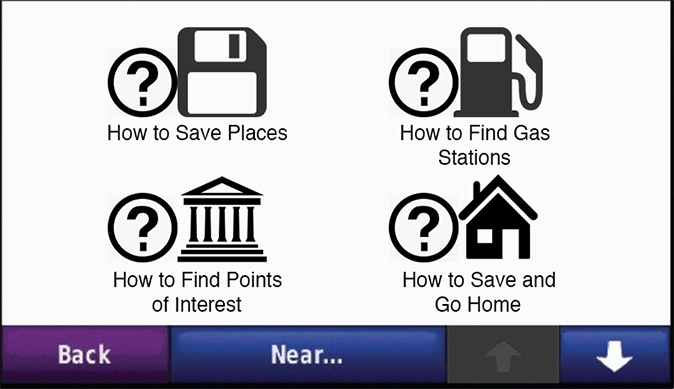
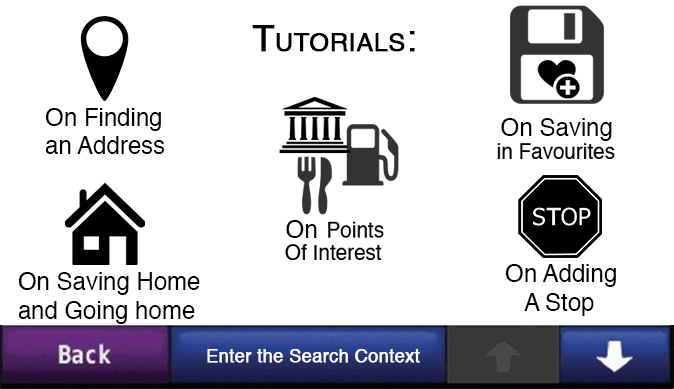
nova versão, mais enxuta e bugs corrigidos

Changed region(s): [[0.0, 0.0, 1.0, 0.8329], [0.2804, 0.8638, 0.6231, 0.9563]]

diff --git a/GarminHelp/src/gui/Tutor.java b/GarminHelp/src/gui/Tutor.java
@@ -17,54 +17,141 @@ import javax.swing.JPanel;
 
 public class Tutor {
 
-	private JFrame tutorFrame;
-	private Dimension d;
-	private Point p;
-	private JLabel label;
-	private String tutorMenu = "/tutorHelpMenu.png";
-
-
-	public Tutor(JFrame myFrame, Dimension d, Point p) throws IOException {
+	private static JFrame tutorFrame;
+	private static Dimension d;
+	private static Point p;
+	private static JLabel label;
+	private static String saveFav = "/tutorSaveFavourite.png";
+	private static String tutorMenu = "/tutorHelpMenu.png";
+	private static String saveHome = "/tutorSaveNavHome.png";
+	private static String pointsInterest = "/tutorPointsOfInt.png";
+	private static String address = "/tutorFindAddress.png";
+	private static String stop = "/tutorAddStop.png";
+	
+	public static void tutorMenu(JFrame myFrame, Dimension d, Point p) throws IOException {
 		tutorFrame = myFrame;
-		this.d = d;
-		this.p = p;
+		Tutor.d = d;
+		Tutor.p = p;
 		URL menu = URL.class.getResource(tutorMenu);
 		label = new JLabel();
 		Image img = ImageIO.read(menu);
 		label.setIcon(new ImageIcon(img));
 		label.setSize(d);
 		label.setLocation(p);
-	}
-	public void tutorMenu() {
+		boolean isTutor = true;
 		JPanel menuPanel = new JPanel();
 		menuPanel.setSize(d);
 		menuPanel.setLocation(p);
-		//		menuPanel.setLayout(null);
 
 		menuPanel.add(label);
 		menuPanel.setVisible(true);
 		tutorFrame.add(menuPanel);
 		tutorFrame.repaint();
-		handleBack(menuPanel, tutorFrame);
+		handleClicks(tutorFrame, menuPanel, isTutor);
 	}
 
-	private void handleBack(JPanel tutorPanel, JFrame myFrame) {
-		tutorPanel.addMouseListener(new MouseAdapter() {
+	public static void handleClicks(JFrame frame, JPanel myPanel, boolean fromTutor) {
+		myPanel.addMouseListener(new MouseAdapter() {
 			@Override
 			public void mouseClicked(MouseEvent event) {
-				Rectangle back = new Rectangle(0, 326, 169, 60);
-				if(back.contains(event.getX(), event.getY(), 1, 1)) {
-					myFrame.remove(tutorPanel);
+				super.mouseClicked(event);
+
+				Rectangle boundsAddress = new Rectangle(42, 3,132,142);
+				Rectangle boundsBackTutor = new Rectangle(0, 321, 169, 65);
+				Rectangle boundsPointsInterest = new Rectangle(275, 87, 137, 187);
+				Rectangle boundsFav = new Rectangle(493, 3, 124, 167);
+				Rectangle boundsHome = new Rectangle(10, 171, 195, 152);
+				Rectangle boundsStop = new Rectangle(498, 172, 120, 147);
+
+				if(boundsAddress.contains(event.getX(), event.getY())){
 					try {
-						myFrame.remove(tutorPanel);
-						myFrame.repaint();
-						MainMenu.whereTo(myFrame, tutorPanel);
+						handleView("address");
 					} catch (IOException e) {
 						e.printStackTrace();
 					}
+				}
+				else if(boundsBackTutor.contains(event.getX(), event.getY())) {
+					try {
+						frame.remove(myPanel);
+						frame.repaint();
+						if(fromTutor) {
+							MainMenu.whereTo(frame, myPanel);
+						}else {
+							Tutor.tutorMenu(frame, d, p);
+						}
+					} catch (IOException e) {
+						e.printStackTrace();
+					}
+				}
 
+				else if(boundsPointsInterest.contains(event.getX(), event.getY())) {
+					try {
+						handleView("pointsInterest");
+					} catch (IOException e) {
+						e.printStackTrace();
+					}
+				}
+				else if(boundsFav.contains(event.getX(), event.getY())) {
+					try {
+						handleView("saveFav");
+					} catch (IOException e) {
+						e.printStackTrace();
+					}
+				}
+				else if(boundsHome.contains(event.getX(), event.getY())) {
+					try {
+						handleView("saveHome");
+					} catch (IOException e) {
+						e.printStackTrace();
+					}
+				}
+				else if (boundsStop.contains(event.getX(), event.getY())) {
+					try {
+						handleView("stop");
+					} catch (IOException e) {
+						e.printStackTrace();
+					}
 				}
 			}
+			public void handleView(String tip) throws IOException {
+				frame.remove(myPanel);
+				frame.repaint();
+				if(tip.equals("saveHome")) {
+					Tutor.showHelp(frame, new Dimension(671, 389),  new Point(1,10), saveHome);
+				}
+				else if(tip.equals("pointsInterest")) {
+					Tutor.showHelp(frame, new Dimension(671, 389),  new Point(1,10), pointsInterest);
+				}
+				else if(tip.equals("saveFav")) {
+					Tutor.showHelp(frame, new Dimension(671, 389),  new Point(1,10), saveFav);
+				}
+				else if(tip.equals("address")) {
+					Tutor.showHelp(frame, new Dimension(671, 389),  new Point(1,10), address);
+				}
+				else if(tip.equals("stop")) {
+					Tutor.showHelp(frame, new Dimension(671, 389),  new Point(1,10), stop);
+				}
+			}
+
 		});
+	}
+
+
+	public static void showHelp(JFrame frame, Dimension d, Point p, String url) throws IOException {
+		URL urlString = URL.class.getResource(url);
+		JLabel label = new JLabel();
+		Image img = ImageIO.read(urlString);
+		label.setIcon(new ImageIcon(img));
+		label.setSize(d);
+		label.setLocation(p);
+		JFrame myFrame = frame;
+		JPanel myPanel = new JPanel();
+		myPanel.setSize(d);
+		myPanel.setLayout(null);
+		myPanel.add(label);
+		myFrame.add(myPanel);
+		myFrame.repaint();
+		handleClicks(myFrame, myPanel, false);
+
 	}
 }

diff --git a/GarminHelp/src/gui/MainMenu.java b/GarminHelp/src/gui/MainMenu.java
@@ -132,7 +132,7 @@ public class MainMenu {
 				super.mouseClicked(event);
 				myFrame.remove(tradPanel);
 				try {
-					run("Garmin Help ReDesign", myFrame, new Dimension(680, 400));
+					MainMenu.run("Garmin Help ReDesign", myFrame, new Dimension(680, 400));
 				} catch (IOException e) {
 					e.printStackTrace();
 				}
@@ -154,6 +154,7 @@ public class MainMenu {
 		wherePanel.setLocation(1,-10);
 		wherePanel.setVisible(true);
 		myFrame.remove(myPanel);
+		myFrame.repaint();
 		myFrame.add(wherePanel);
 		myFrame.repaint();
 		handleTutorial(wherePanel, myFrame);
@@ -173,7 +174,7 @@ public class MainMenu {
 					myFrame.remove(wherePanel);
 					myFrame.repaint();
 					try {
-						run("Garmin Help ReDesign", myFrame, new Dimension(700, 410)); //680, 400
+						MainMenu.run("Garmin Help ReDesign", myFrame, new Dimension(700, 410)); //680, 400
 					} catch (IOException e) {
 						e.printStackTrace();
 					}
@@ -182,14 +183,12 @@ public class MainMenu {
 
 			public void handleTutor() {
 				try {
-					tutor = new Tutor(myFrame, new Dimension(674, 410), new Point(1,-5));
+					myFrame.remove(wherePanel);
+					myFrame.repaint();
+					Tutor.tutorMenu(myFrame, new Dimension(674, 410), new Point(1,-5));
 				} catch (IOException e) {
 					e.printStackTrace();
 				}
-				myFrame.remove(wherePanel);
-				myFrame.repaint();
-				tutor.tutorMenu();
-				System.out.println("CLASS TUTOR!");
 			}
 		});
 	}

diff --git a/GarminHelp/src/gui/Garmin.java b/GarminHelp/src/gui/Garmin.java
@@ -49,7 +49,7 @@ public class Garmin {
 		frame.setResizable(false);
 		frame.setLayout(null);
 		frame.setVisible(true);
-		Thread.sleep(2000);
+		Thread.sleep(2000); //Mudar para 5000 na v final
 		frame.remove(label);
 		frame.remove(panel);
 		frame.repaint();
